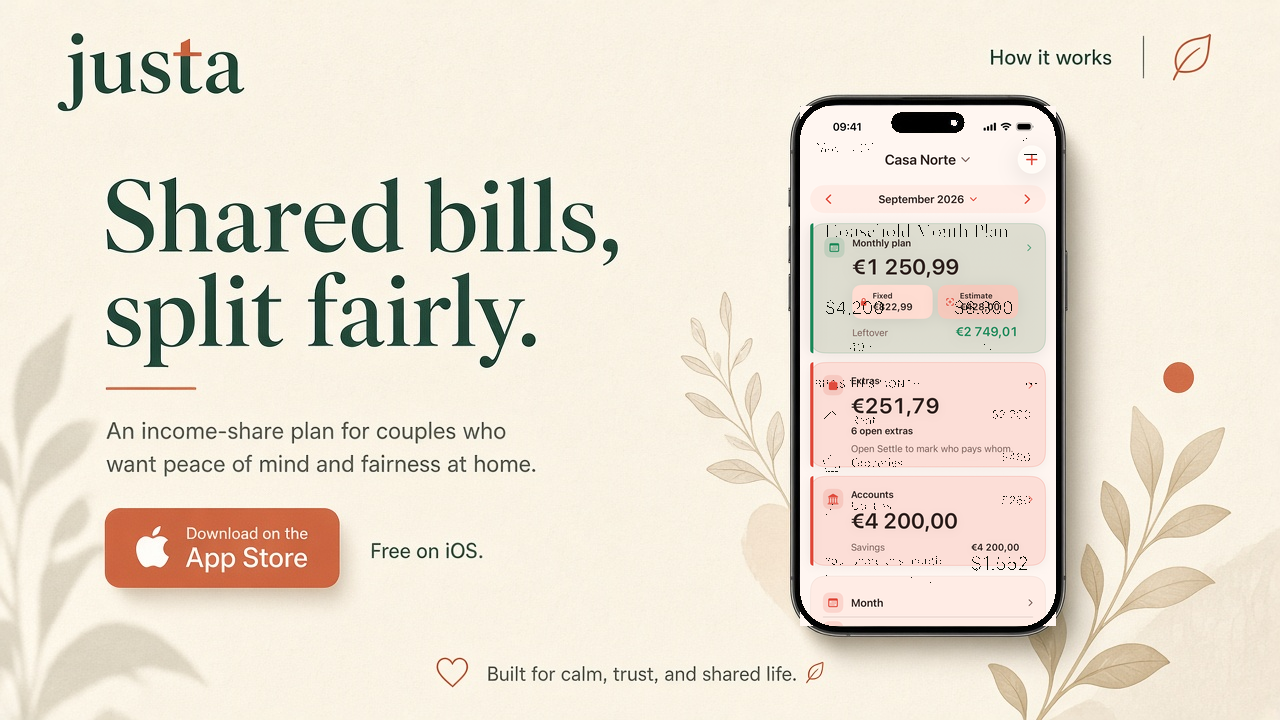
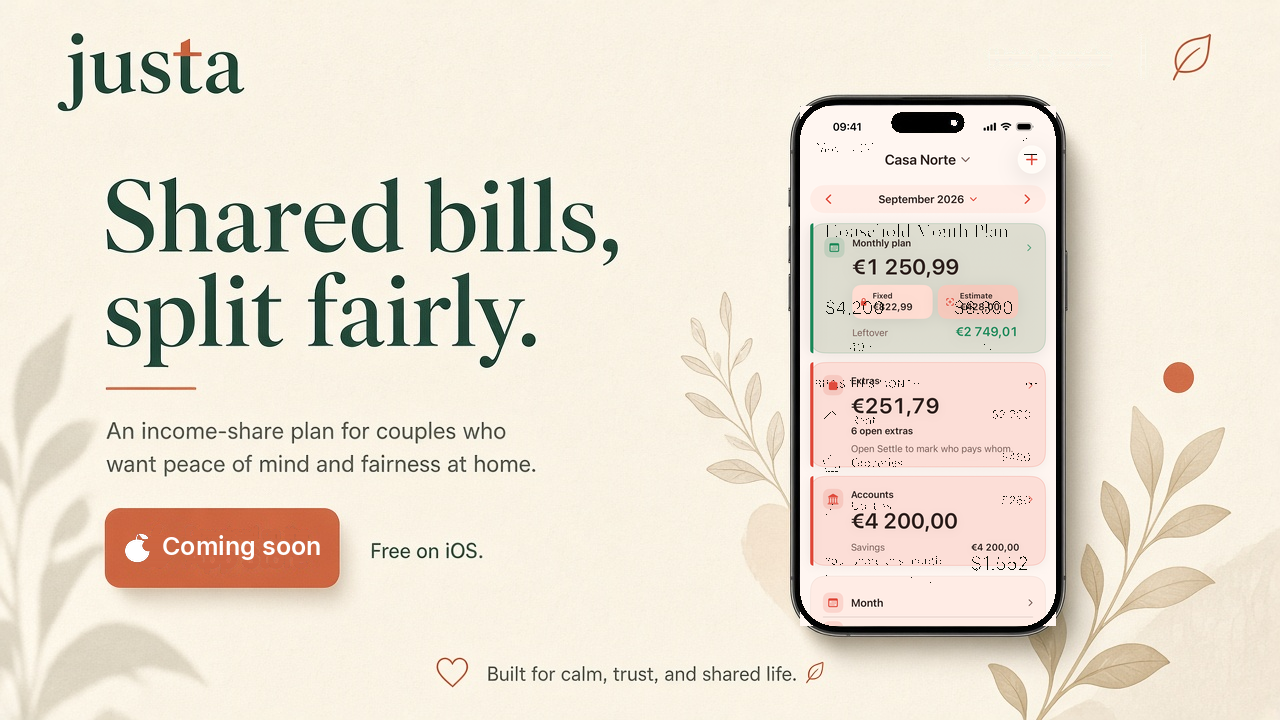
Patch Justa hero: Coming soon badge, no How it works
Remove the baked-in How it works label and its hit target. Keep the Coming soon control disabled, with no store URL, and leave privacy in the footer.

Changed region(s): [[0.0938, 0.7333, 0.25, 0.7944], [0.7812, 0.0611, 0.875, 0.0917]]

diff --git a/static/justa/index.html b/static/justa/index.html
@@ -77,7 +77,7 @@
       color: transparent;
     }
 
-    /* App Store badge → Coming soon (no live URL) */
+    /* Terracotta badge → Coming soon (disabled; no store URL) */
     .hit-cta {
       left: 7.109%;
       top: 68.611%;
@@ -85,15 +85,6 @@
       height: 15%;
       border-radius: 0.6em;
       cursor: not-allowed;
-    }
-
-    /* How it works → privacy */
-    .hit-nav {
-      left: 76.562%;
-      top: 4.861%;
-      width: 18.828%;
-      height: 8.472%;
-      cursor: pointer;
     }
 
     .meta {
@@ -140,8 +131,6 @@
         title="Coming soon"
         onclick="return false;"
       >Coming soon</a>
-      <!-- How it works → privacy -->
-      <a class="hit hit-nav" href="./privacy/" title="How it works">How it works</a>
     </div>
 
     <nav class="meta" aria-label="Site">
